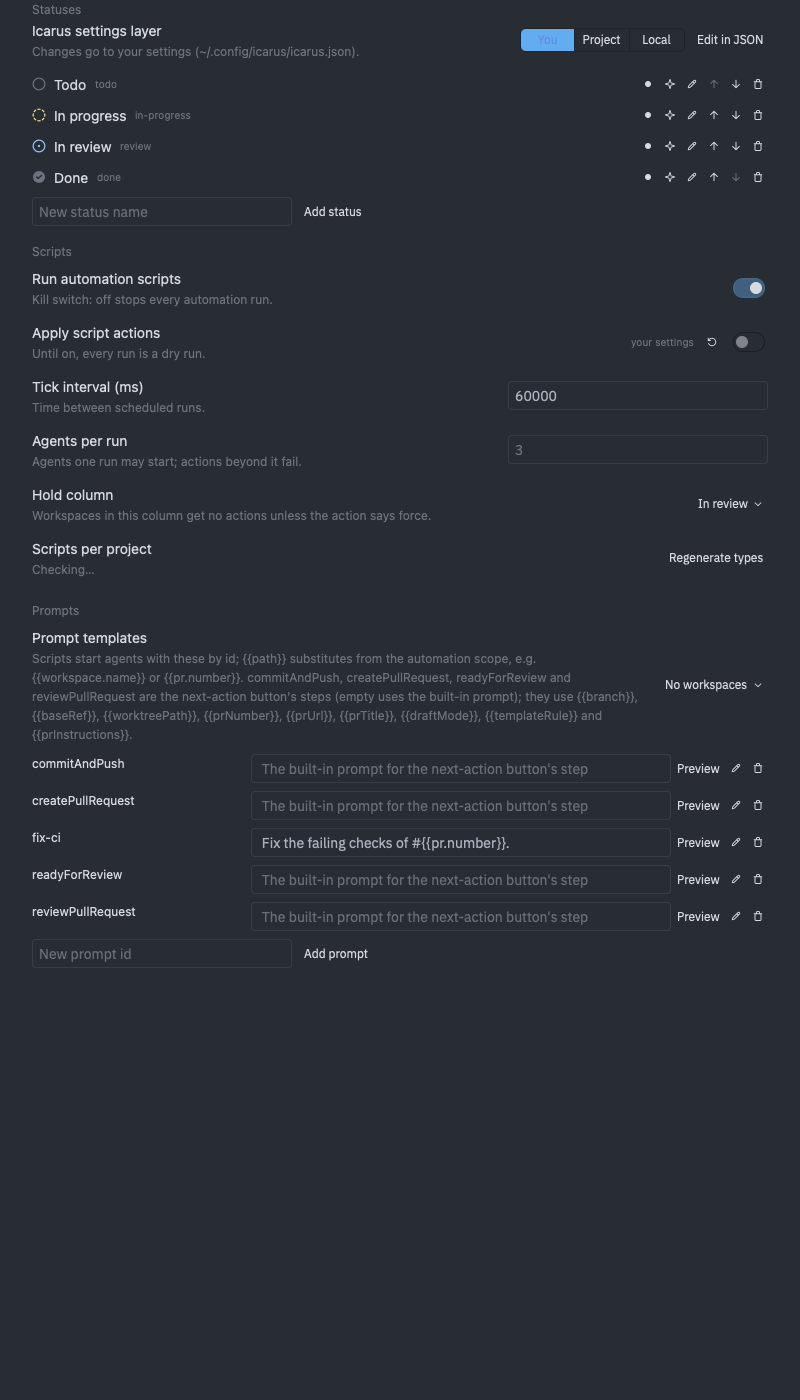
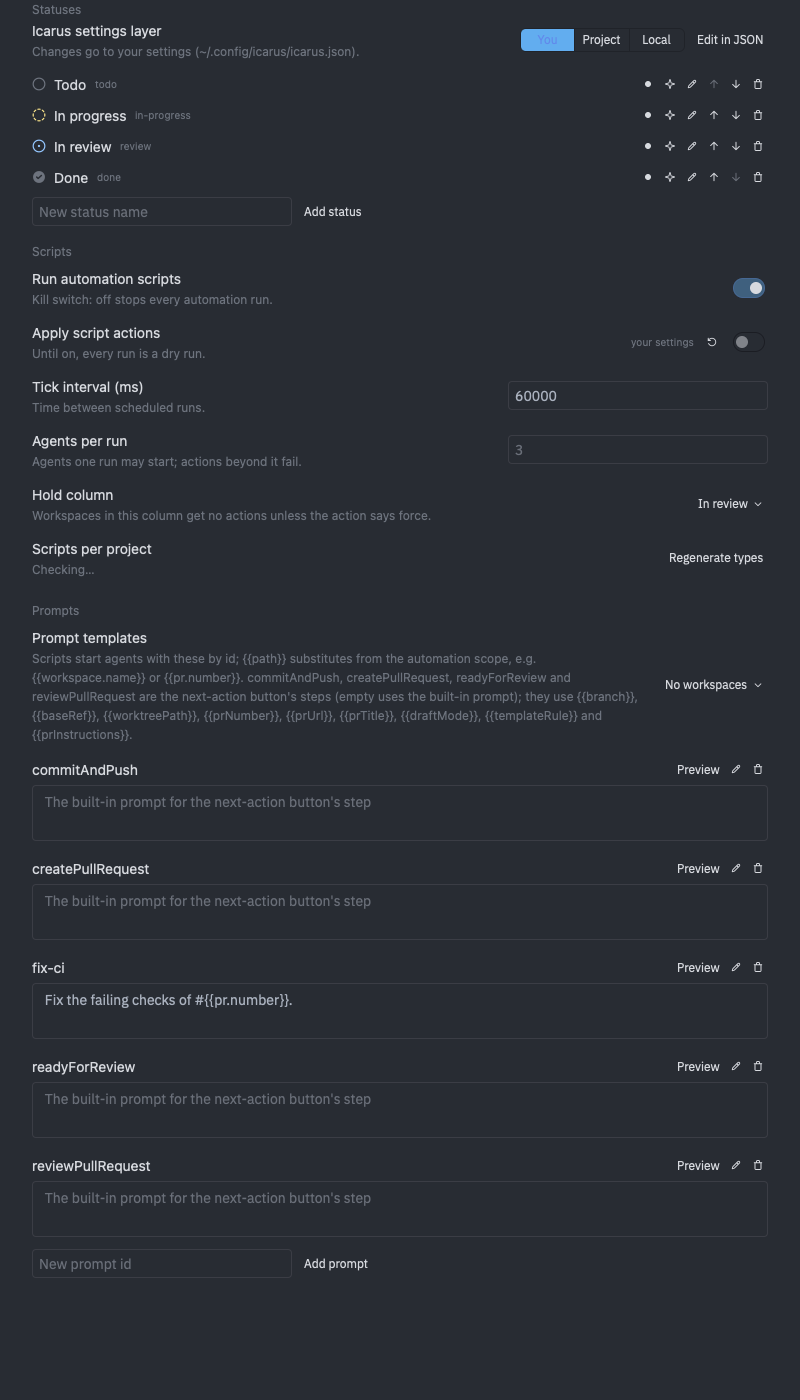
Settings pages keep focus, prompt rows restyled, held actions don't fail runs
Clicking inside an Icarus settings page, or opening one without a tab stop,
forwarded focus past the embedded view and wrapped to the General nav entry,
which opened General. Embedded views now take focus themselves.

Prompt templates show the id on its own line with Preview, rename and remove,
and the prompt in a full-width text area below.

An action skipped because its workspace sits in the hold column is marked
`held` and no longer fails the run.

The Orca flow template handles Linear's "Open in coding tool" event
(linear.open_issue): it assigns the issue, creates a workspace named after it
and starts the agent in plan mode with Linear's prompt. A new test remaps
conditions to columns and checks that cards move.

diff --git a/crates/icarus-settings/templates/orca-flow.ts b/crates/icarus-settings/templates/orca-flow.ts
@@ -285,6 +285,31 @@ if (trigger.kind === "event") {
   }
 }
 
+// Linear's "Open in coding tool" hook: `icarus automation emit linear.open_issue --path "$LINEAR_WORK_DIR" --env …`.
+if (scope.trigger?.kind === "event" && scope.trigger.name === "linear.open_issue") {
+  const env = (scope.trigger.payload ?? {}) as Record<string, string | undefined>;
+  const issue = env.LINEAR_ISSUE_IDENTIFIER;
+  // The name doubles as the dev server's <name>.localhost label, so it stays the short issue id.
+  const name = lower(issue ?? env.LINEAR_ISSUE_BRANCH_NAME ?? "linear-task");
+  const existing = scope.workspaces.find((ws) => lower(ws.name) === name);
+  if (issue) actions.push({ method: "issue.assign", params: { id: issue } });
+  if (!existing) {
+    actions.push({
+      method: "workspace.create",
+      params: { project: scope.project.id, name, ...(issue ? { issue } : {}), agent: false },
+    });
+    actions.push({
+      method: "agent.create",
+      params: {
+        workspace: name,
+        provider: config.agent,
+        mode: "plan",
+        prompt: env.LINEAR_PROMPT || `Work on ${issue ?? "this issue"}.`,
+      },
+    });
+  }
+}
+
 // Inbox entries stay while the PR still asks for a review, so a deleted review workspace isn't recreated.
 for (const ledger of [memory.created, memory.attempts]) {
   for (const key of Object.keys(ledger)) if (!inInbox.has(key.split("@")[0]) && now - (memory.created[key] ?? 0) > 14 * DAY) delete ledger[key];

diff --git a/app/crates/settings_ui/src/settings_ui.rs b/app/crates/settings_ui/src/settings_ui.rs
@@ -408,7 +408,7 @@ impl SettingFieldRenderer {
 
 struct NonFocusableHandle {
     handle: FocusHandle,
-    _subscription: Subscription,
+    _subscription: Option<Subscription>,
 }
 
 impl NonFocusableHandle {
@@ -426,8 +426,17 @@ impl NonFocusableHandle {
             });
             Self {
                 handle,
-                _subscription,
+                _subscription: Some(_subscription),
             }
+        })
+    }
+
+    // Embedded views may have no tab stop, so forwarding would wrap focus onto the navbar and switch pages.
+    fn focusable(cx: &mut App) -> Entity<Self> {
+        let handle = cx.focus_handle().tab_index(0).tab_stop(true);
+        cx.new(|_| Self {
+            handle,
+            _subscription: None,
         })
     }
 }
@@ -2619,8 +2628,12 @@ impl SettingsWindow {
             .pages
             .iter()
             .map(|page| {
-                std::iter::repeat_with(|| NonFocusableHandle::new(0, false, window, cx))
-                    .take(page.items.len())
+                page.items
+                    .iter()
+                    .map(|item| match item {
+                        SettingsPageItem::View(_) => NonFocusableHandle::focusable(cx),
+                        _ => NonFocusableHandle::new(0, false, window, cx),
+                    })
                     .collect()
             })
             .collect::<Vec<_>>();
@@ -7739,6 +7752,111 @@ pub mod test {
                 assert_eq!(entry.title, "Second");
             })
             .expect("settings window");
+    }
+
+    #[gpui::test]
+    fn test_extension_page_without_tab_stops_keeps_navigation(cx: &mut gpui::TestAppContext) {
+        cx.update(|cx| {
+            register_settings(cx);
+            release_channel::init("0.0.0".parse().expect("version"), cx);
+            crate::init(cx);
+            AppState::set_global(AppState::test(cx), cx);
+            register_extension_page(
+                "Extension",
+                |_, _, cx| {
+                    vec![ExtensionSection {
+                        title: "Only",
+                        view: cx.new(|_| gpui::Empty).into(),
+                    }]
+                },
+                cx,
+            );
+        });
+        cx.update(|cx| open_settings_section("General", None, None, cx));
+        cx.run_until_parked();
+        let settings_window = cx
+            .update(|cx| {
+                cx.windows()
+                    .into_iter()
+                    .find_map(|window| window.downcast::<SettingsWindow>())
+            })
+            .expect("the settings window opens");
+        let cx = &mut gpui::VisualTestContext::from_window(settings_window.into(), cx);
+        cx.update(|window, _| window.activate_window());
+        let draw = |cx: &mut gpui::VisualTestContext| {
+            cx.update_window(settings_window.into(), |_, window, _| window.refresh())
+                .expect("settings window");
+            cx.run_until_parked();
+        };
+        let view_handle = |settings_window: &SettingsWindow, cx: &App| {
+            let view_index = settings_window
+                .current_page()
+                .items
+                .iter()
+                .position(|item| matches!(item, SettingsPageItem::View(_)))?;
+            Some(
+                settings_window.content_handles[settings_window.current_page_index()][view_index]
+                    .focus_handle(cx),
+            )
+        };
+        let assert_on_extension_view = |cx: &mut gpui::VisualTestContext| {
+            settings_window
+                .update(cx, |settings_window, window, cx| {
+                    assert_eq!(settings_window.current_page().title, "Extension");
+                    let handle = view_handle(settings_window, cx).expect("view item");
+                    assert!(handle.is_focused(window));
+                })
+                .expect("settings window");
+        };
+        draw(cx);
+
+        settings_window
+            .update(cx, |settings_window, window, cx| {
+                let extension_entry = settings_window
+                    .navbar_entries
+                    .iter()
+                    .position(|entry| entry.is_root && entry.title == "Extension")
+                    .expect("extension nav entry");
+                settings_window.open_and_scroll_to_navbar_entry(
+                    extension_entry,
+                    None,
+                    true,
+                    window,
+                    cx,
+                );
+                // The test platform never delivers the frame that applies this focus.
+                let first_item = settings_window
+                    .visible_page_items()
+                    .next()
+                    .map(|(index, _)| index)
+                    .expect("first item");
+                window.focus(
+                    &settings_window.focus_handle_for_content_element(first_item, cx),
+                    cx,
+                );
+            })
+            .expect("settings window");
+        for _ in 0..3 {
+            draw(cx);
+        }
+        assert_on_extension_view(cx);
+
+        settings_window
+            .update(cx, |settings_window, window, cx| {
+                settings_window.focus_handle.clone().focus(window, cx);
+            })
+            .expect("settings window");
+        draw(cx);
+        settings_window
+            .update(cx, |settings_window, window, cx| {
+                let handle = view_handle(settings_window, cx).expect("view item");
+                window.focus(&handle, cx);
+            })
+            .expect("settings window");
+        for _ in 0..3 {
+            draw(cx);
+        }
+        assert_on_extension_view(cx);
     }
 
     fn settings_window_with_items(

diff --git a/crates/icarus-server/tests/github_rules_e2e.rs b/crates/icarus-server/tests/github_rules_e2e.rs
@@ -754,6 +754,105 @@ async fn the_orca_flow_script_moves_a_status_and_creates_a_review_workspace() {
     );
 }
 
+fn write_flow(path: &Path, status_by_condition: Value) {
+    let mut options = icarus_settings::automation_template::orca_flow_defaults();
+    options["statusByCondition"] = status_by_condition;
+    options["newWorkspaceStatus"] = Value::Null;
+    std::fs::write(
+        path,
+        icarus_settings::automation_template::orca_flow(&options),
+    )
+    .expect("script");
+}
+
+fn changes_requested_by(login: &str) -> Value {
+    json!({ "latestReviews": { "nodes": [
+        { "state": "CHANGES_REQUESTED", "author": { "login": login } },
+    ] } })
+}
+
+#[tokio::test]
+async fn remapped_conditions_move_cards_between_columns() {
+    if !bun_installed() {
+        eprintln!("skipped: no bun");
+        return;
+    }
+    let scripts = tempfile::tempdir().expect("scripts");
+    let script = scripts.path().join("orca-flow.ts");
+    write_flow(
+        &script,
+        json!({ "draft": "in-progress", "changes-requested": "in-progress", "review": "in-review", "merged": "done" }),
+    );
+    let world = World::new(flow_settings(&script, true), json!({ "viewer": "me" })).await;
+    let (draft, _, draft_head) = world.workspace("feat-draft").await;
+    let (review, _, review_head) = world.workspace("feat-review").await;
+    let (changes, _, changes_head) = world.workspace("feat-changes").await;
+    let status = async |id: &str| {
+        world.request("workspace.info", json!({ "id": id })).await["status"].clone()
+    };
+    let github_changes = async |draft_extra: Value, review_extra: Value| {
+        world.set_fixtures(json!({ "viewer": "me", "pulls": [
+            pull(1, "feat-draft", &draft_head, draft_extra),
+            pull(2, "feat-review", &review_head, review_extra),
+            pull(3, "feat-changes", &changes_head, changes_requested_by("bob")),
+        ] }));
+        // Stands in for the 60 s poll, which refetches past the PR cache.
+        world
+            .request("pr.status", json!({ "workspace": draft, "refresh": true }))
+            .await;
+    };
+
+    github_changes(json!({ "isDraft": true }), json!({})).await;
+    let out = run(&world).await;
+    assert_eq!(status(&draft).await, "in-progress", "{out}");
+    assert_eq!(status(&review).await, "in-review", "{out}");
+    assert_eq!(status(&changes).await, "in-progress", "{out}");
+
+    write_flow(
+        &script,
+        json!({ "draft": "draft", "changes-requested": "changes-requested", "review": "in-review", "merged": "done" }),
+    );
+    let out = run(&world).await;
+    assert_eq!(status(&draft).await, "draft", "{out}");
+    assert_eq!(status(&review).await, "in-review", "{out}");
+    assert_eq!(status(&changes).await, "changes-requested", "{out}");
+
+    github_changes(json!({}), changes_requested_by("bob")).await;
+    let out = run(&world).await;
+    assert_eq!(status(&draft).await, "in-review", "ready for review: {out}");
+    assert_eq!(status(&review).await, "changes-requested", "{out}");
+    assert_eq!(status(&changes).await, "changes-requested", "{out}");
+
+    write_flow(
+        &script,
+        json!({ "draft": "draft", "changes-requested": "draft", "review": "in-review", "merged": "done" }),
+    );
+    let out = run(&world).await;
+    assert_eq!(status(&draft).await, "in-review", "{out}");
+    assert_eq!(status(&review).await, "draft", "{out}");
+    assert_eq!(status(&changes).await, "draft", "{out}");
+
+    github_changes(json!({ "state": "MERGED" }), json!({ "isDraft": true })).await;
+    let out = run(&world).await;
+    assert_eq!(status(&draft).await, "done", "merged: {out}");
+    assert_eq!(
+        status(&review).await,
+        "draft",
+        "draft wins over changes requested: {out}"
+    );
+
+    write_flow(&script, json!({ "merged": "done" }));
+    world
+        .request("workspace.set", json!({ "id": changes, "status": "todo" }))
+        .await;
+    let out = run(&world).await;
+    assert_eq!(
+        status(&changes).await,
+        "todo",
+        "an unmapped condition leaves the card: {out}"
+    );
+}
+
 #[tokio::test]
 #[ignore = "reads from the real GitHub through the local gh login"]
 async fn live_gh_viewer_login() {

diff --git a/app/crates/icarus_ui/src/settings_pages.rs b/app/crates/icarus_ui/src/settings_pages.rs
@@ -1196,7 +1196,7 @@ impl IcarusSettings {
             .into_iter()
             .map(|(id, text)| {
                 let template = cx.new(|cx| {
-                    let mut editor = Editor::auto_height(1, 8, window, cx);
+                    let mut editor = Editor::auto_height(2, 16, window, cx);
                     editor.set_soft_wrap();
                     let placeholder = if NEXT_ACTION_PROMPTS.contains(&id.as_str()) {
                         "The built-in prompt for the next-action button's step"
@@ -2510,18 +2510,17 @@ impl IcarusSettings {
                     .map(|(_, result)| result.clone());
                 let (id_preview, id_rename, id_remove) = (id.clone(), id.clone(), id.clone());
                 v_flex()
-                    .py_1()
+                    .py_2()
+                    .gap_1()
                     .child(
                         h_flex()
                             .gap_2()
-                            .items_start()
                             .justify_between()
-                            .child(Label::new(id.clone()).size(LabelSize::Small))
+                            .child(Label::new(id.clone()))
                             .child(
                                 h_flex()
                                     .gap_0p5()
                                     .flex_none()
-                                    .child(Self::text_field(&row.template, 420., cx))
                                     .child(
                                         ui::Button::new(element_id("preview"), "Preview")
                                             .label_size(LabelSize::Small)
@@ -2569,6 +2568,16 @@ impl IcarusSettings {
                                             )),
                                     ),
                             ),
+                    )
+                    .child(
+                        div()
+                            .w_full()
+                            .px_2()
+                            .py_1()
+                            .rounded_sm()
+                            .border_1()
+                            .border_color(cx.theme().colors().border_variant)
+                            .child(row.template.clone()),
                     )
                     .children(preview.map(|preview| {
                         match preview {

diff --git a/crates/icarus-server/src/automations.rs b/crates/icarus-server/src/automations.rs
@@ -897,9 +897,13 @@ impl Server {
         };
         let outcomes = || results.iter().chain(&cli_calls).filter_map(|r| r.get("ok"));
         let acted = outcomes().any(|ok| ok == &Value::Bool(true));
+        // The hold column is the user's choice, so a held action doesn't fail the run.
         let failed = output.error.is_some()
             || decision_error.is_some()
-            || outcomes().any(|ok| ok == &Value::Bool(false));
+            || results
+                .iter()
+                .chain(&cli_calls)
+                .any(|r| r["ok"] == false && r["held"] != true);
         let mut memory_after = memory_before.clone();
         let mut memory_error = None;
         if let Some(memory) = &decision.memory {
@@ -1075,6 +1079,7 @@ impl Server {
                 .as_ref()
                 .filter(|w| !action.force && config.hold.is_some() && w.status == config.hold)
             {
+                result["held"] = json!(true);
                 refuse(format!("skipped: {} is in the hold column", w.name))
             } else if AGENT_METHODS.contains(&action.method.as_str())
                 && agents_started >= config.max_agents

diff --git a/crates/icarus-server/tests/automations_e2e.rs b/crates/icarus-server/tests/automations_e2e.rs
@@ -266,6 +266,11 @@ async fn a_script_decides_statuses_and_buttons_and_its_runs_replay() {
         .expect("held run");
     let result = &held["runs"][0]["results"][0];
     assert_eq!(result["ok"], false, "{held}");
+    assert_eq!(result["held"], true, "{held}");
+    assert_eq!(
+        held["runs"][0]["failed"], false,
+        "a held action isn't a failure: {held}"
+    );
     assert!(
         result["error"].as_str().is_some_and(|e| e.contains("hold")),
         "{result}"
@@ -284,7 +289,7 @@ async fn a_script_decides_statuses_and_buttons_and_its_runs_replay() {
         )
         .await
         .expect("failed runs");
-    assert_eq!(failed["runs"].as_array().map(Vec::len), Some(1));
+    assert_eq!(failed["runs"].as_array().map(Vec::len), Some(0));
     let shown = client
         .request(
             "automation.show",
